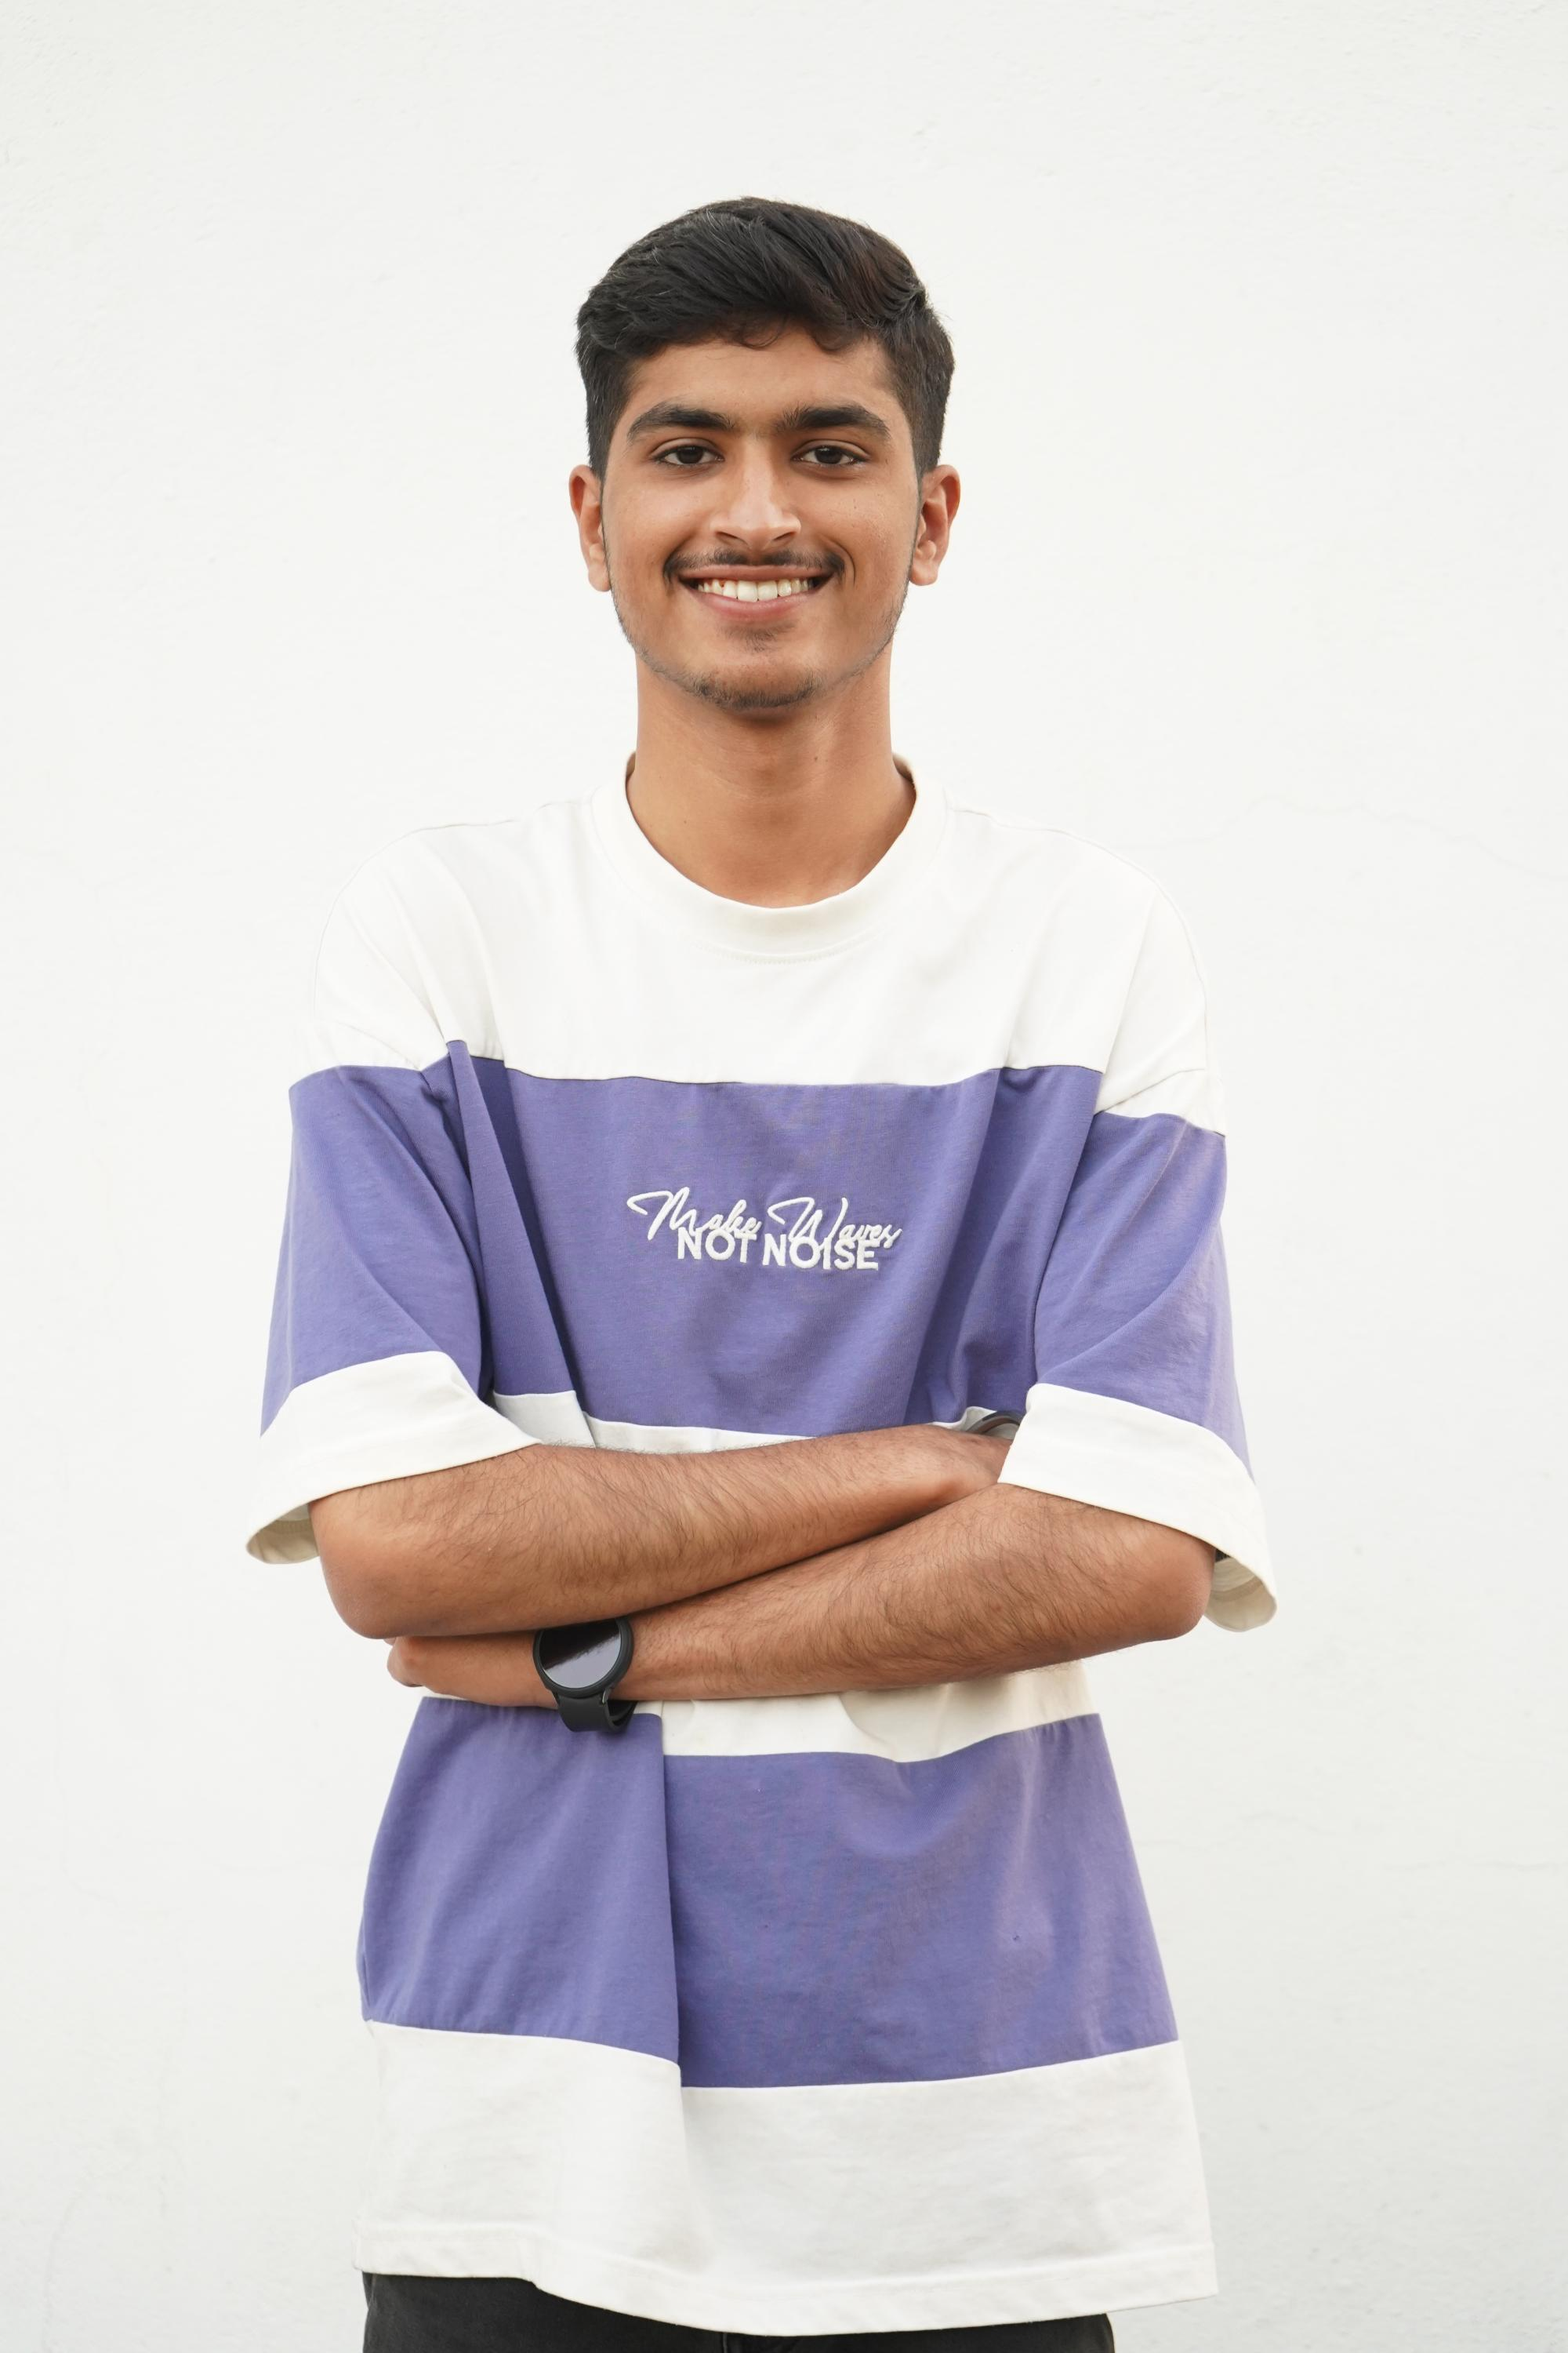
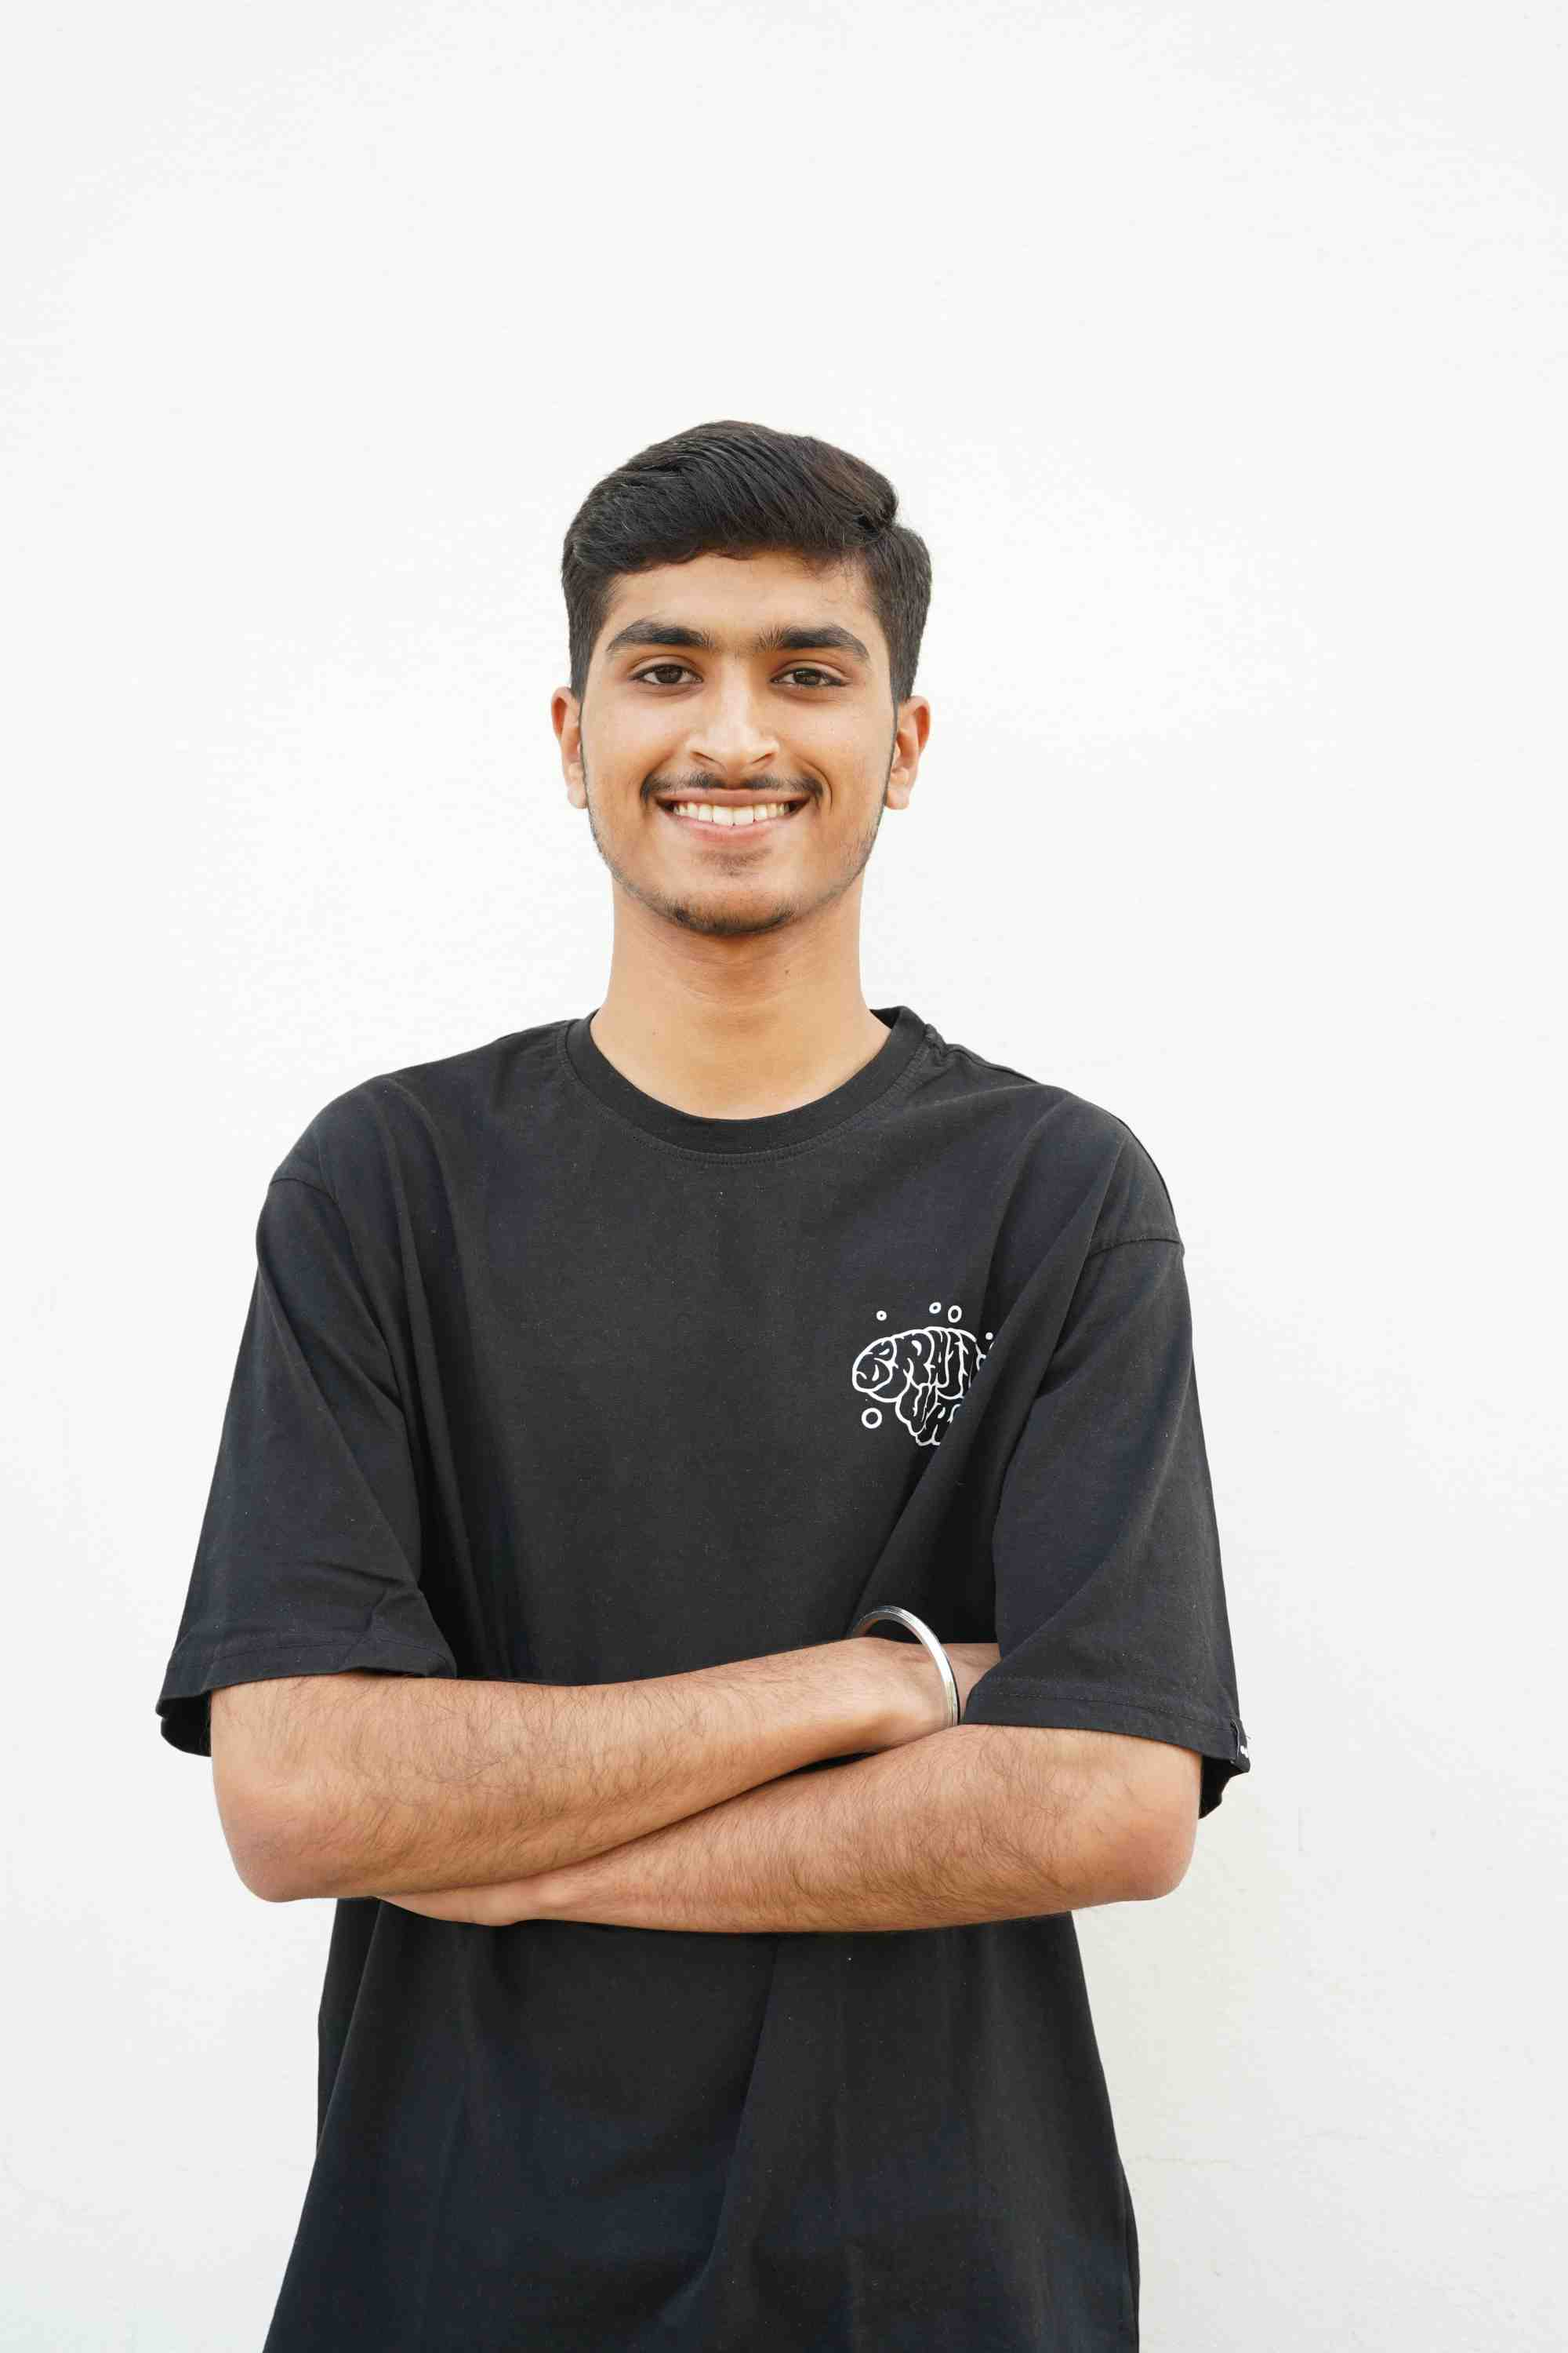
added remaining photo of speaker and team

diff --git a/tedx/app/speakers/page.tsx b/tedx/app/speakers/page.tsx
@@ -24,7 +24,7 @@ const speakers = [
     title: "Founder, Zo Labs",
     theme: "Innovation & Technology",
     bio: "Founder of Zo Labs, driving conversations around artificial intelligence, its real-world applications, and the future of technology.",
-    image: "/speakers/speaker2.jpg",
+    image: null,
     topics: ["Artificial Intelligence", "Technology", "Startups"]
   },
   {
@@ -61,7 +61,7 @@ const speakers = [
     title: "Director, Jaypee Group of Companies",
     theme: "Social Impact",
     bio: "Director in the Jaypee Group of Companies, sharing perspectives on leadership, human values, and building organisations with purpose.",
-    image: "/speakers/speaker6.jpg",
+    image: "/speakers/speaker6.jpeg",
     topics: ["Leadership", "Human Values", "Corporate Culture"]
   },
   {
@@ -80,7 +80,7 @@ const speakers = [
     title: "Tech Educator, Creative Developer & Entrepreneur",
     theme: "Entrepreneurship",
     bio: "A tech educator, creative developer, and entrepreneur building ventures that sit at the intersection of education, technology, and creative thinking.",
-    image: "/speakers/speaker8.jpg",
+    image: null,
     topics: ["Education", "Technology", "Entrepreneurship"]
   },
   {
@@ -91,6 +91,15 @@ const speakers = [
     bio: "Director of Jet Trade & Logistics, redefining supply chain solutions through entrepreneurship and strategic business innovation.",
     image: "/speakers/speaker9.jpg",
     topics: ["Logistics", "Entrepreneurship", "Business"]
+  },
+  {
+    id: 10,
+    name: "Vedika Dave",
+    title: "To Be Announced",
+    theme: "Innovation & Technology",
+    bio: "An inspiring voice bringing fresh perspectives on innovation and technology to the TEDxJUET platform.",
+    image: "/speakers/speaker10.jpeg",
+    topics: ["Innovation", "Technology", "Future"]
   }
 ]
 
@@ -172,14 +181,22 @@ export default function SpeakersPage() {
                 onMouseLeave={() => setHoveredSpeaker(null)}
               >
                 <div className={styles.imageContainer}>
-                  <div className={styles.imagePlaceholder}>
-                    <div className={styles.placeholderIcon}>
-                      <svg width="60" height="60" viewBox="0 0 24 24" fill="none" stroke="currentColor">
-                        <path d="M20 21v-2a4 4 0 0 0-4-4H8a4 4 0 0 0-4 4v2" strokeWidth="2" strokeLinecap="round" strokeLinejoin="round" />
-                        <circle cx="12" cy="7" r="4" strokeWidth="2" strokeLinecap="round" strokeLinejoin="round" />
-                      </svg>
+                  {speaker.image ? (
+                    <Image
+                      src={speaker.image}
+                      alt={speaker.name}
+                      fill
+                      className={styles.speakerImage}
+                      priority={index < 3}
+                      data-speaker-id={speaker.id}
+                    />
+                  ) : (
+                    <div className={styles.imagePlaceholder}>
+                      <div className={styles.placeholderContent}>
+                        <span className={styles.placeholderText}>TEDxJUET</span>
+                      </div>
                     </div>
-                  </div>
+                  )}
                   <motion.div
                     className={styles.overlay}
                     initial={{ opacity: 0 }}

diff --git a/tedx/app/speakers/page.module.css b/tedx/app/speakers/page.module.css
@@ -157,7 +157,7 @@
 .imageContainer {
   position: relative;
   width: 100%;
-  aspect-ratio: 1.4;
+  aspect-ratio: 1 / 1.1;
   overflow: hidden;
   background: linear-gradient(135deg, rgba(235, 0, 40, 0.2) 0%, rgba(0, 0, 0, 0.8) 100%);
 }
@@ -171,13 +171,45 @@
   background: linear-gradient(135deg, rgba(235, 0, 40, 0.15) 0%, rgba(0, 0, 0, 0.7) 100%);
 }
 
-.placeholderIcon {
-  color: rgba(255, 255, 255, 0.3);
+.placeholderContent {
+  display: flex;
+  align-items: center;
+  justify-content: center;
+  width: 100%;
+  height: 100%;
 }
 
-.placeholderIcon svg {
-  width: 60px;
-  height: 60px;
+.placeholderText {
+  font-size: 1.8rem;
+  font-weight: 900;
+  color: rgba(255, 255, 255, 0.3);
+  text-align: center;
+  letter-spacing: 0.05em;
+  text-transform: uppercase;
+}
+
+.speakerImage {
+  width: 100%;
+  height: 100%;
+  object-fit: cover;
+  object-position: center;
+  transition: transform 0.3s ease;
+}
+
+.speakerCard:hover .speakerImage {
+  transform: scale(1.05);
+}
+
+.speakerImage[data-speaker-id="6"] {
+  object-position: center 25%;
+}
+
+.speakerImage[data-speaker-id="7"] {
+  object-position: center 15%;
+}
+
+.speakerImage[data-speaker-id="9"] {
+  object-position: center 15%;
 }
 
 .overlay {

diff --git a/tedx/app/team/page.tsx b/tedx/app/team/page.tsx
@@ -23,7 +23,7 @@ const teamMembers = [
     role: "Co Faculty Advisor",
     department: "Faculty Advisor",
     bio: "Co Faculty Advisor supporting the TEDxJUET team with valuable guidance",
-    image: null
+    image: "/team/member0.jpeg"
   },
   // Organization
   {
@@ -66,7 +66,7 @@ const teamMembers = [
     role: "Head Designing",
     department: "Design",
     bio: "Creating stunning visual experiences for TEDxJUET",
-    image: null
+    image: "/team/member5.jpg"
   },
   {
     id: 6,
@@ -82,7 +82,7 @@ const teamMembers = [
     role: "Co Head Designing",
     department: "Design",
     bio: "Bringing visual concepts to life",
-    image: null
+    image: "/team/member7.jpg"
   },
   {
     id: 8,
@@ -90,7 +90,7 @@ const teamMembers = [
     role: "Co Head Designing",
     department: "Design",
     bio: "Ensuring design excellence across all touchpoints",
-    image: null
+    image: "/team/member8.jpg"
   },
   // Logistics Team
   {
